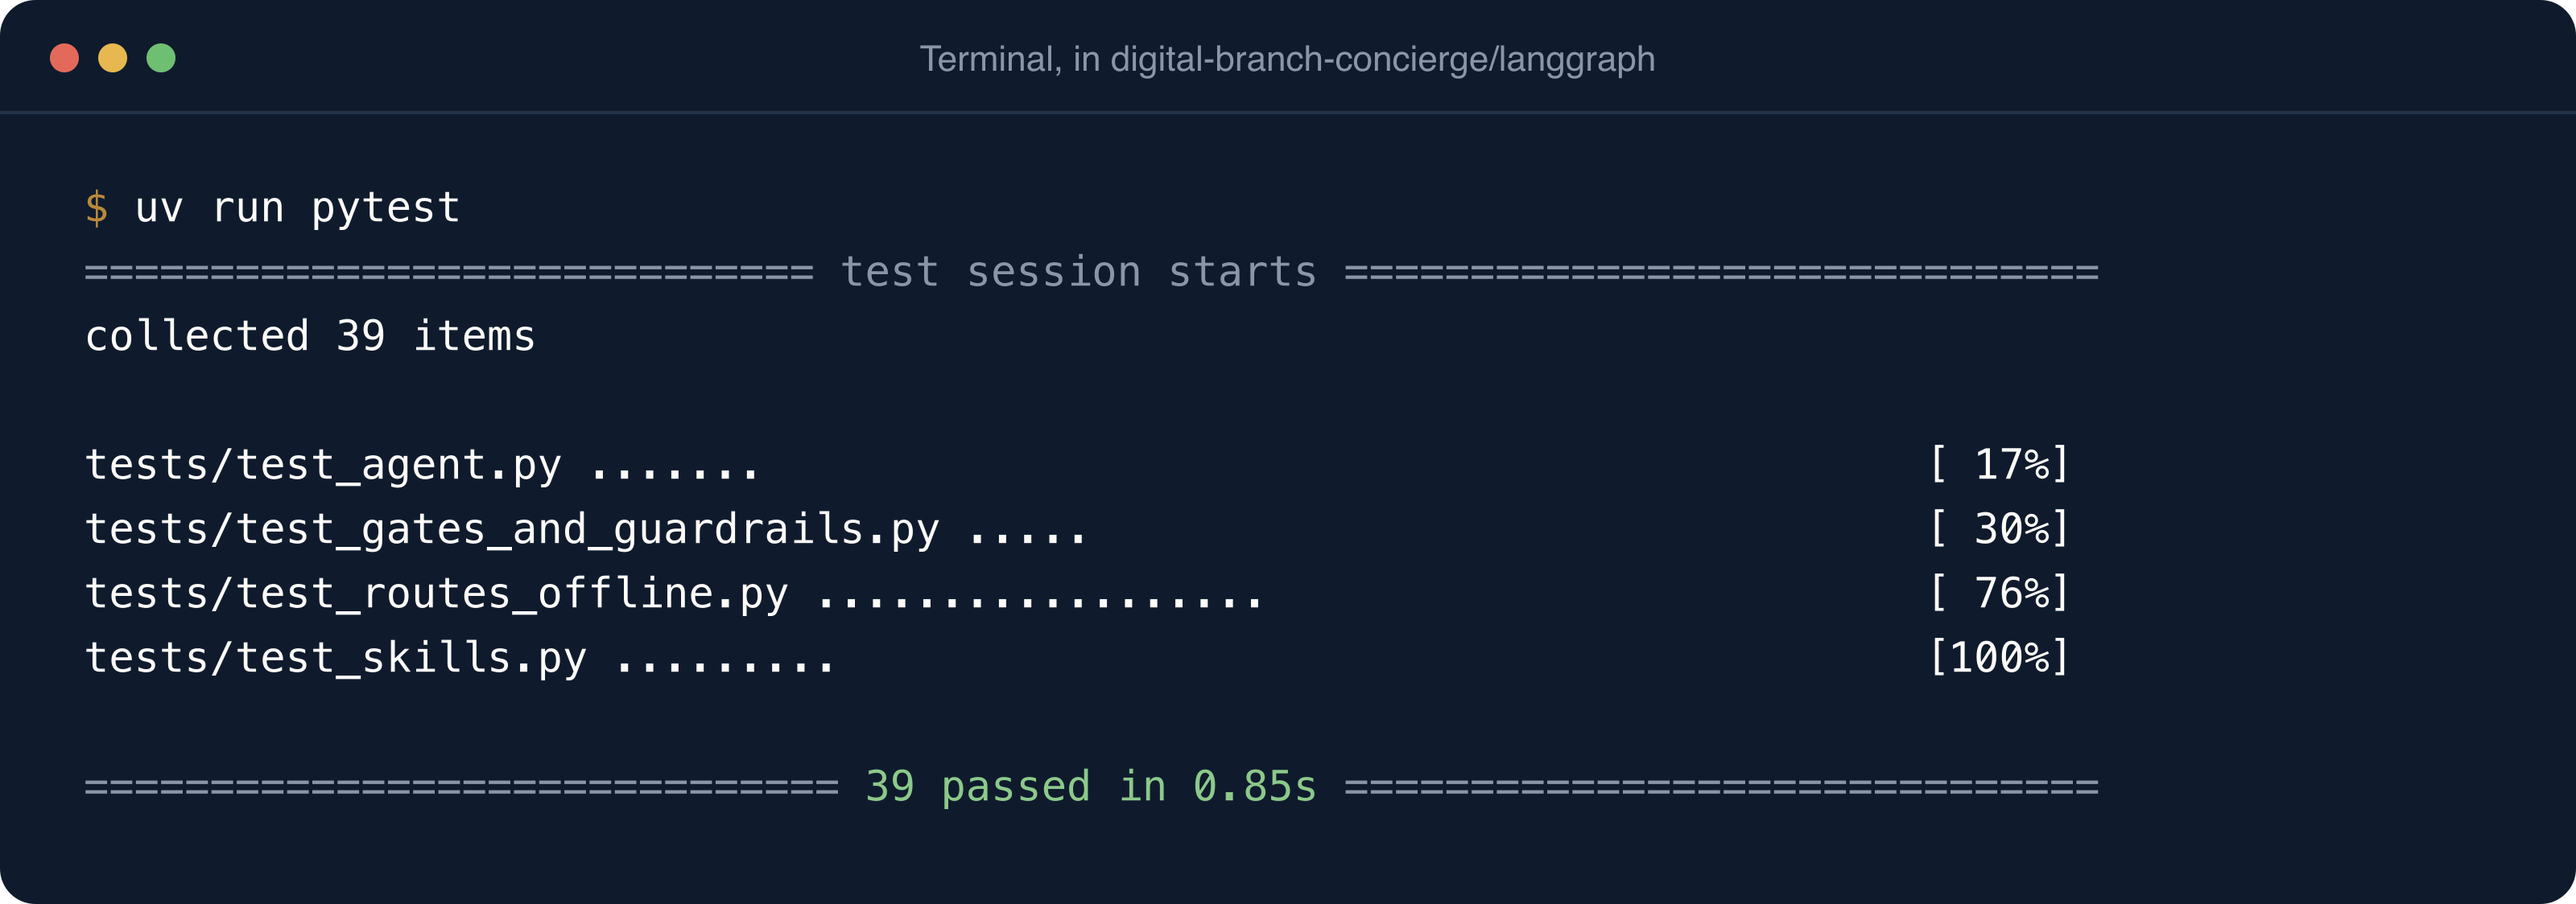
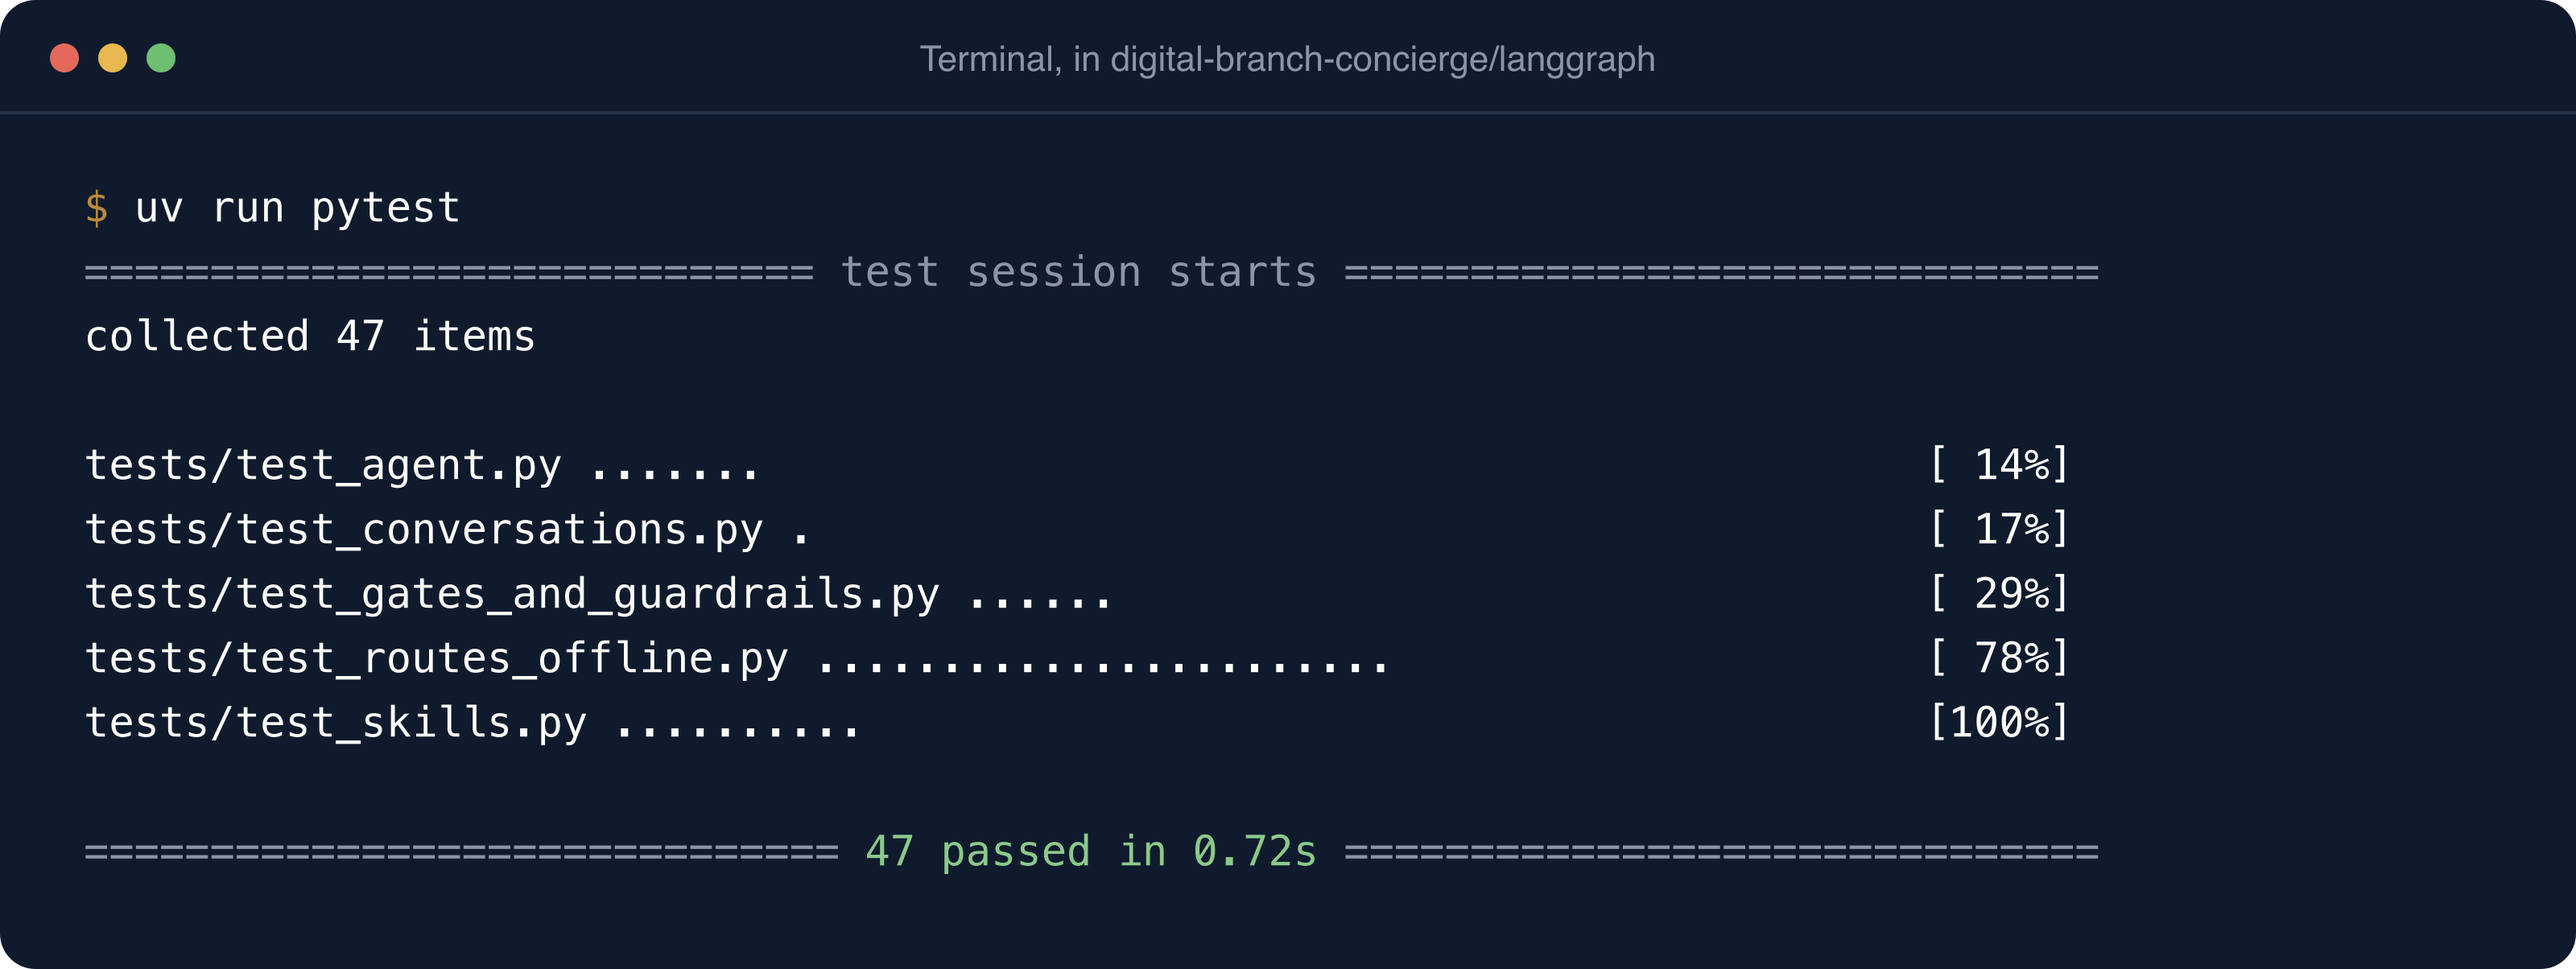
Concierge articles polished, recommendation dialog as a component
- Polish the concierge article, n8n demo and n8n AI assistant article
- LangGraph review recommends the concierge article
- RecommendDialog: presentational dialog with stories; images fitted, not cropped
- Main article reflects the LangGraph gate's reply check; pytest illustration at 47

diff --git a/components/blog/RecommendModal.tsx b/components/blog/RecommendModal.tsx
@@ -1,46 +1,23 @@
 "use client";
 
-import Link from "next/link";
-import { useCallback, useEffect, useRef, useState } from "react";
-import { usePresence } from "@/lib/use-presence";
-import { useFocusTrap } from "@/lib/use-focus-trap";
+import { useCallback, useEffect, useState } from "react";
+import { RecommendDialog, type RecommendDialogProps } from "@/components/blog/RecommendDialog";
 
 /**
  * Recommends a newer or richer post to readers who land on an older one.
  *
  * Driven by `recommend` in a post's frontmatter and rendered by the post page.
- * Opens once on first visit; "Continue to this article", Escape or a backdrop
- * click closes it and remembers the choice in localStorage, so it never nags.
- * Storage can be unavailable (private windows, blocked site data), so every
- * access is guarded and the modal simply shows again next time.
+ * Opens once on first visit; following the link, "Continue to this article",
+ * Escape or a backdrop click remembers the choice in localStorage, so it never
+ * nags. Storage can be unavailable (private windows, blocked site data), so
+ * every access is guarded and the modal simply shows again next time.
  */
 export function RecommendModal({
   fromSlug,
-  href,
-  title,
-  excerpt,
-  image,
-  heading = "There is a newer article on this",
-  reason,
-  cta = "Read the new article",
-}: {
-  fromSlug: string;
-  href: string;
-  title: string;
-  excerpt?: string;
-  image?: string;
-  heading?: string;
-  reason?: string;
-  cta?: string;
-}) {
+  ...dialog
+}: { fromSlug: string } & Omit<RecommendDialogProps, "open" | "onClose" | "onFollow">) {
   const storageKey = `gp-recommend-dismissed:${fromSlug}`;
   const [open, setOpen] = useState(false);
-  const { mounted, shown } = usePresence(open);
-  const dialogRef = useRef<HTMLDivElement>(null);
-  const primaryRef = useRef<HTMLAnchorElement>(null);
-  const previousFocus = useRef<HTMLElement | null>(null);
-
-  useFocusTrap(dialogRef, open);
 
   useEffect(() => {
     let dismissed = false;
@@ -69,84 +46,5 @@ export function RecommendModal({
     setOpen(false);
   }, [remember]);
 
-  useEffect(() => {
-    if (!open) return;
-    previousFocus.current = document.activeElement as HTMLElement | null;
-    const prevOverflow = document.body.style.overflow;
-    document.body.style.overflow = "hidden";
-    primaryRef.current?.focus();
-    const onKey = (e: KeyboardEvent) => {
-      if (e.key === "Escape") close();
-    };
-    window.addEventListener("keydown", onKey);
-    return () => {
-      document.body.style.overflow = prevOverflow;
-      window.removeEventListener("keydown", onKey);
-      previousFocus.current?.focus?.();
-    };
-  }, [open, close]);
-
-  if (!mounted) return null;
-
-  return (
-    <div
-      className={`fixed inset-0 z-[70] flex items-end sm:items-center justify-center bg-ink/60 backdrop-blur-sm p-4 transition-opacity duration-200 ease-out ${shown ? "opacity-100" : "pointer-events-none opacity-0"}`}
-      onClick={close}
-    >
-      <div
-        ref={dialogRef}
-        role="dialog"
-        aria-modal="true"
-        aria-labelledby="recommend-heading"
-        aria-describedby="recommend-reason"
-        onClick={(e) => e.stopPropagation()}
-        className={`not-prose w-full max-w-lg rounded-2xl bg-cream shadow-2xl ring-1 ring-gold/30 overflow-hidden font-sans transition duration-200 ease-out ${shown ? "translate-y-0 scale-100 opacity-100" : "translate-y-2 scale-[0.98] opacity-0"}`}
-      >
-        {image ? (
-          // eslint-disable-next-line @next/next/no-img-element
-          // Social cards are 1200x630: show the whole card at that ratio so
-          // its title is never cropped, with a hairline under it.
-          <img
-            src={image}
-            alt=""
-            className="block w-full h-auto aspect-[1200/630] object-cover border-b border-gold/20"
-          />
-        ) : null}
-        <div className="p-6 sm:p-7">
-          <p className="text-xs tracking-[0.22em] uppercase text-gold-deep font-semibold">
-            Recommended instead
-          </p>
-          <h2 id="recommend-heading" className="mt-2 font-serif text-2xl sm:text-3xl text-ink leading-tight">
-            {heading}
-          </h2>
-          {reason ? (
-            <p id="recommend-reason" className="mt-3 text-base text-ink-soft leading-relaxed">
-              {reason}
-            </p>
-          ) : null}
-          <div className="mt-5 rounded-xl border border-gold/30 bg-white/60 p-4">
-            <p className="font-serif text-lg text-ink leading-snug">{title}</p>
-            {excerpt ? <p className="mt-1 text-sm text-ink-mute line-clamp-2">{excerpt}</p> : null}
-          </div>
-          <div className="mt-6 flex flex-col-reverse sm:flex-row sm:items-center sm:justify-end gap-3">
-            <button
-              type="button"
-              onClick={close}
-              className="rounded-full px-5 py-2.5 text-sm font-semibold text-ink-soft hover:text-ink border border-ink/15 hover:border-ink/30 transition-colors focus-visible:outline focus-visible:outline-2 focus-visible:outline-offset-2 focus-visible:outline-gold-deep"
-            >
-              Continue to this article
-            </button>
-            <Link
-              ref={primaryRef}
-              href={href}
-              onClick={remember}
-              className="rounded-full px-5 py-2.5 text-sm font-semibold text-cream bg-ink hover:bg-gold-deep text-center transition-colors focus-visible:outline focus-visible:outline-2 focus-visible:outline-offset-2 focus-visible:outline-gold-deep"
-            >
-              {cta} →
-            </Link>
-          </div>
-        </div>
-      </div>
-    </div>
-  );
+  return <RecommendDialog {...dialog} open={open} onClose={close} onFollow={remember} />;
 }

diff --git a/components/blog/RecommendDialog.tsx b/components/blog/RecommendDialog.tsx
@@ -1,0 +1,132 @@
+"use client";
+
+import Link from "next/link";
+import { useEffect, useRef } from "react";
+import { usePresence } from "@/lib/use-presence";
+import { useFocusTrap } from "@/lib/use-focus-trap";
+
+export type RecommendDialogProps = {
+  /** Whether the dialog is open. It fades and scales in and out. */
+  open: boolean;
+  /** Called on "Continue to this article", Escape or a backdrop click. */
+  onClose: () => void;
+  /** Called when the reader follows the recommendation, before navigation. */
+  onFollow?: () => void;
+  /** Link to the recommended post. */
+  href: string;
+  /** Title of the recommended post. */
+  title: string;
+  excerpt?: string;
+  /** Card image, ideally a 1200x630 social card. Other shapes are fitted, not cropped. */
+  image?: string;
+  eyebrow?: string;
+  heading?: string;
+  reason?: string;
+  cta?: string;
+  dismissLabel?: string;
+};
+
+/**
+ * A modal that points the reader to a newer or richer post, with the option
+ * to stay. Controlled: the caller owns `open`, so it can be driven by
+ * first-visit logic (see RecommendModal), a button or a story.
+ */
+export function RecommendDialog({
+  open,
+  onClose,
+  onFollow,
+  href,
+  title,
+  excerpt,
+  image,
+  eyebrow = "Recommended instead",
+  heading = "There is a newer article on this",
+  reason,
+  cta = "Read the new article",
+  dismissLabel = "Continue to this article",
+}: RecommendDialogProps) {
+  const { mounted, shown } = usePresence(open);
+  const dialogRef = useRef<HTMLDivElement>(null);
+  const primaryRef = useRef<HTMLAnchorElement>(null);
+
+  useFocusTrap(dialogRef, open);
+
+  useEffect(() => {
+    if (!open) return;
+    const previousFocus = document.activeElement as HTMLElement | null;
+    const prevOverflow = document.body.style.overflow;
+    document.body.style.overflow = "hidden";
+    primaryRef.current?.focus();
+    const onKey = (e: KeyboardEvent) => {
+      if (e.key === "Escape") onClose();
+    };
+    window.addEventListener("keydown", onKey);
+    return () => {
+      document.body.style.overflow = prevOverflow;
+      window.removeEventListener("keydown", onKey);
+      previousFocus?.focus?.();
+    };
+  }, [open, onClose]);
+
+  if (!mounted) return null;
+
+  return (
+    <div
+      className={`fixed inset-0 z-[70] flex items-end sm:items-center justify-center bg-ink/60 backdrop-blur-sm p-4 transition-opacity duration-200 ease-out ${shown ? "opacity-100" : "pointer-events-none opacity-0"}`}
+      onClick={onClose}
+    >
+      <div
+        ref={dialogRef}
+        role="dialog"
+        aria-modal="true"
+        aria-labelledby="recommend-heading"
+        aria-describedby={reason ? "recommend-reason" : undefined}
+        onClick={(e) => e.stopPropagation()}
+        className={`not-prose w-full max-w-lg rounded-2xl bg-cream shadow-2xl ring-1 ring-gold/30 overflow-hidden font-sans transition duration-200 ease-out ${shown ? "translate-y-0 scale-100 opacity-100" : "translate-y-2 scale-[0.98] opacity-0"}`}
+      >
+        {image ? (
+          // Social cards are 1200x630, so the frame keeps that ratio. Any
+          // other shape is fitted inside it rather than cropped.
+          // eslint-disable-next-line @next/next/no-img-element
+          <img
+            src={image}
+            alt=""
+            className="block w-full h-auto aspect-[1200/630] object-contain bg-cream-200 border-b border-gold/20"
+          />
+        ) : null}
+        <div className="p-6 sm:p-7">
+          <p className="text-xs tracking-[0.22em] uppercase text-gold-deep font-semibold">{eyebrow}</p>
+          <h2 id="recommend-heading" className="mt-2 font-serif text-2xl sm:text-3xl text-ink leading-tight">
+            {heading}
+          </h2>
+          {reason ? (
+            <p id="recommend-reason" className="mt-3 text-base text-ink-soft leading-relaxed">
+              {reason}
+            </p>
+          ) : null}
+          <div className="mt-5 rounded-xl border border-gold/30 bg-white/60 p-4">
+            <p className="font-serif text-lg text-ink leading-snug">{title}</p>
+            {excerpt ? <p className="mt-1 text-sm text-ink-mute line-clamp-2">{excerpt}</p> : null}
+          </div>
+          <div className="mt-6 flex flex-col-reverse sm:flex-row sm:items-center sm:justify-end gap-3">
+            <button
+              type="button"
+              onClick={onClose}
+              className="rounded-full px-5 py-2.5 text-sm font-semibold text-ink-soft hover:text-ink border border-ink/15 hover:border-ink/30 transition-colors focus-visible:outline focus-visible:outline-2 focus-visible:outline-offset-2 focus-visible:outline-gold-deep"
+            >
+              {dismissLabel}
+            </button>
+            <Link
+              ref={primaryRef}
+              href={href}
+              onClick={onFollow}
+              className="rounded-full px-5 py-2.5 text-sm font-semibold text-cream bg-ink hover:bg-gold-deep text-center transition-colors focus-visible:outline focus-visible:outline-2 focus-visible:outline-offset-2 focus-visible:outline-gold-deep"
+            >
+              {cta} →
+            </Link>
+          </div>
+        </div>
+      </div>
+    </div>
+  );
+}

diff --git a/components/blog/RecommendDialog.stories.tsx b/components/blog/RecommendDialog.stories.tsx
@@ -1,0 +1,83 @@
+import type { Meta, StoryObj } from "@storybook/react";
+import { useState } from "react";
+import { expect, fn, userEvent, waitFor, within } from "storybook/test";
+import { RecommendDialog } from "./RecommendDialog";
+
+const meta: Meta<typeof RecommendDialog> = {
+  title: "Overlays / RecommendDialog",
+  component: RecommendDialog,
+  parameters: { layout: "fullscreen" },
+  args: {
+    open: true,
+    onClose: fn(),
+    onFollow: fn(),
+    href: "/blog/digital-branch-concierge",
+    title: "Structure at the edges, freedom in the middle",
+    excerpt:
+      "One digital branch concierge, built in n8n and LangGraph with other leading automation platforms to follow, to test how agentic AI can work safely inside a European enterprise process.",
+    image: "/posts/digital-branch-concierge/og.png",
+    heading: "There is a richer agentic build",
+    reason:
+      "This article is a first look at n8n's AI assistant. The digital branch concierge goes much further: a real AI agent with bounded skills, guardrails, human approval before it acts and an audit trail of every decision.",
+    cta: "Read the concierge article",
+  },
+};
+export default meta;
+
+type Story = StoryObj<typeof RecommendDialog>;
+
+/** As it appears on the n8n AI assistant article. */
+export const Default: Story = {};
+
+/** Without an image, the card leads with the eyebrow and heading. */
+export const NoImage: Story = { args: { image: undefined } };
+
+/** A non-social image (here a wide canvas) is fitted inside the frame, never cropped. */
+export const NonCardImage: Story = {
+  args: { image: "/posts/digital-branch-concierge/langgraph-steps/00-shape-key.webp" },
+};
+
+/** Minimal props: the defaults for eyebrow, heading and call to action. */
+export const Defaults: Story = {
+  args: { heading: undefined, reason: undefined, cta: undefined, excerpt: undefined, image: undefined },
+};
+
+/** Controlled from a button, the way a caller other than the first-visit modal would use it. */
+export const Controlled: Story = {
+  args: { open: false },
+  render: (args) => {
+    function Harness() {
+      const [open, setOpen] = useState(false);
+      return (
+        <div className="min-h-screen p-8">
+          <button
+            type="button"
+            onClick={() => setOpen(true)}
+            className="rounded-full px-5 py-2.5 text-sm font-semibold text-cream bg-ink"
+          >
+            Show recommendation
+          </button>
+          <RecommendDialog
+            {...args}
+            open={open}
+            onClose={() => {
+              args.onClose();
+              setOpen(false);
+            }}
+          />
+        </div>
+      );
+    }
+    return <Harness />;
+  },
+  play: async ({ canvasElement, args }) => {
+    const canvas = within(canvasElement);
+    await userEvent.click(canvas.getByRole("button", { name: "Show recommendation" }));
+    const body = within(canvasElement.ownerDocument.body);
+    const dialog = await body.findByRole("dialog");
+    await expect(dialog).toBeVisible();
+    await userEvent.click(body.getByRole("button", { name: "Continue to this article" }));
+    await expect(args.onClose).toHaveBeenCalled();
+    await waitFor(() => expect(body.queryByRole("dialog")).toBeNull());
+  },
+};
